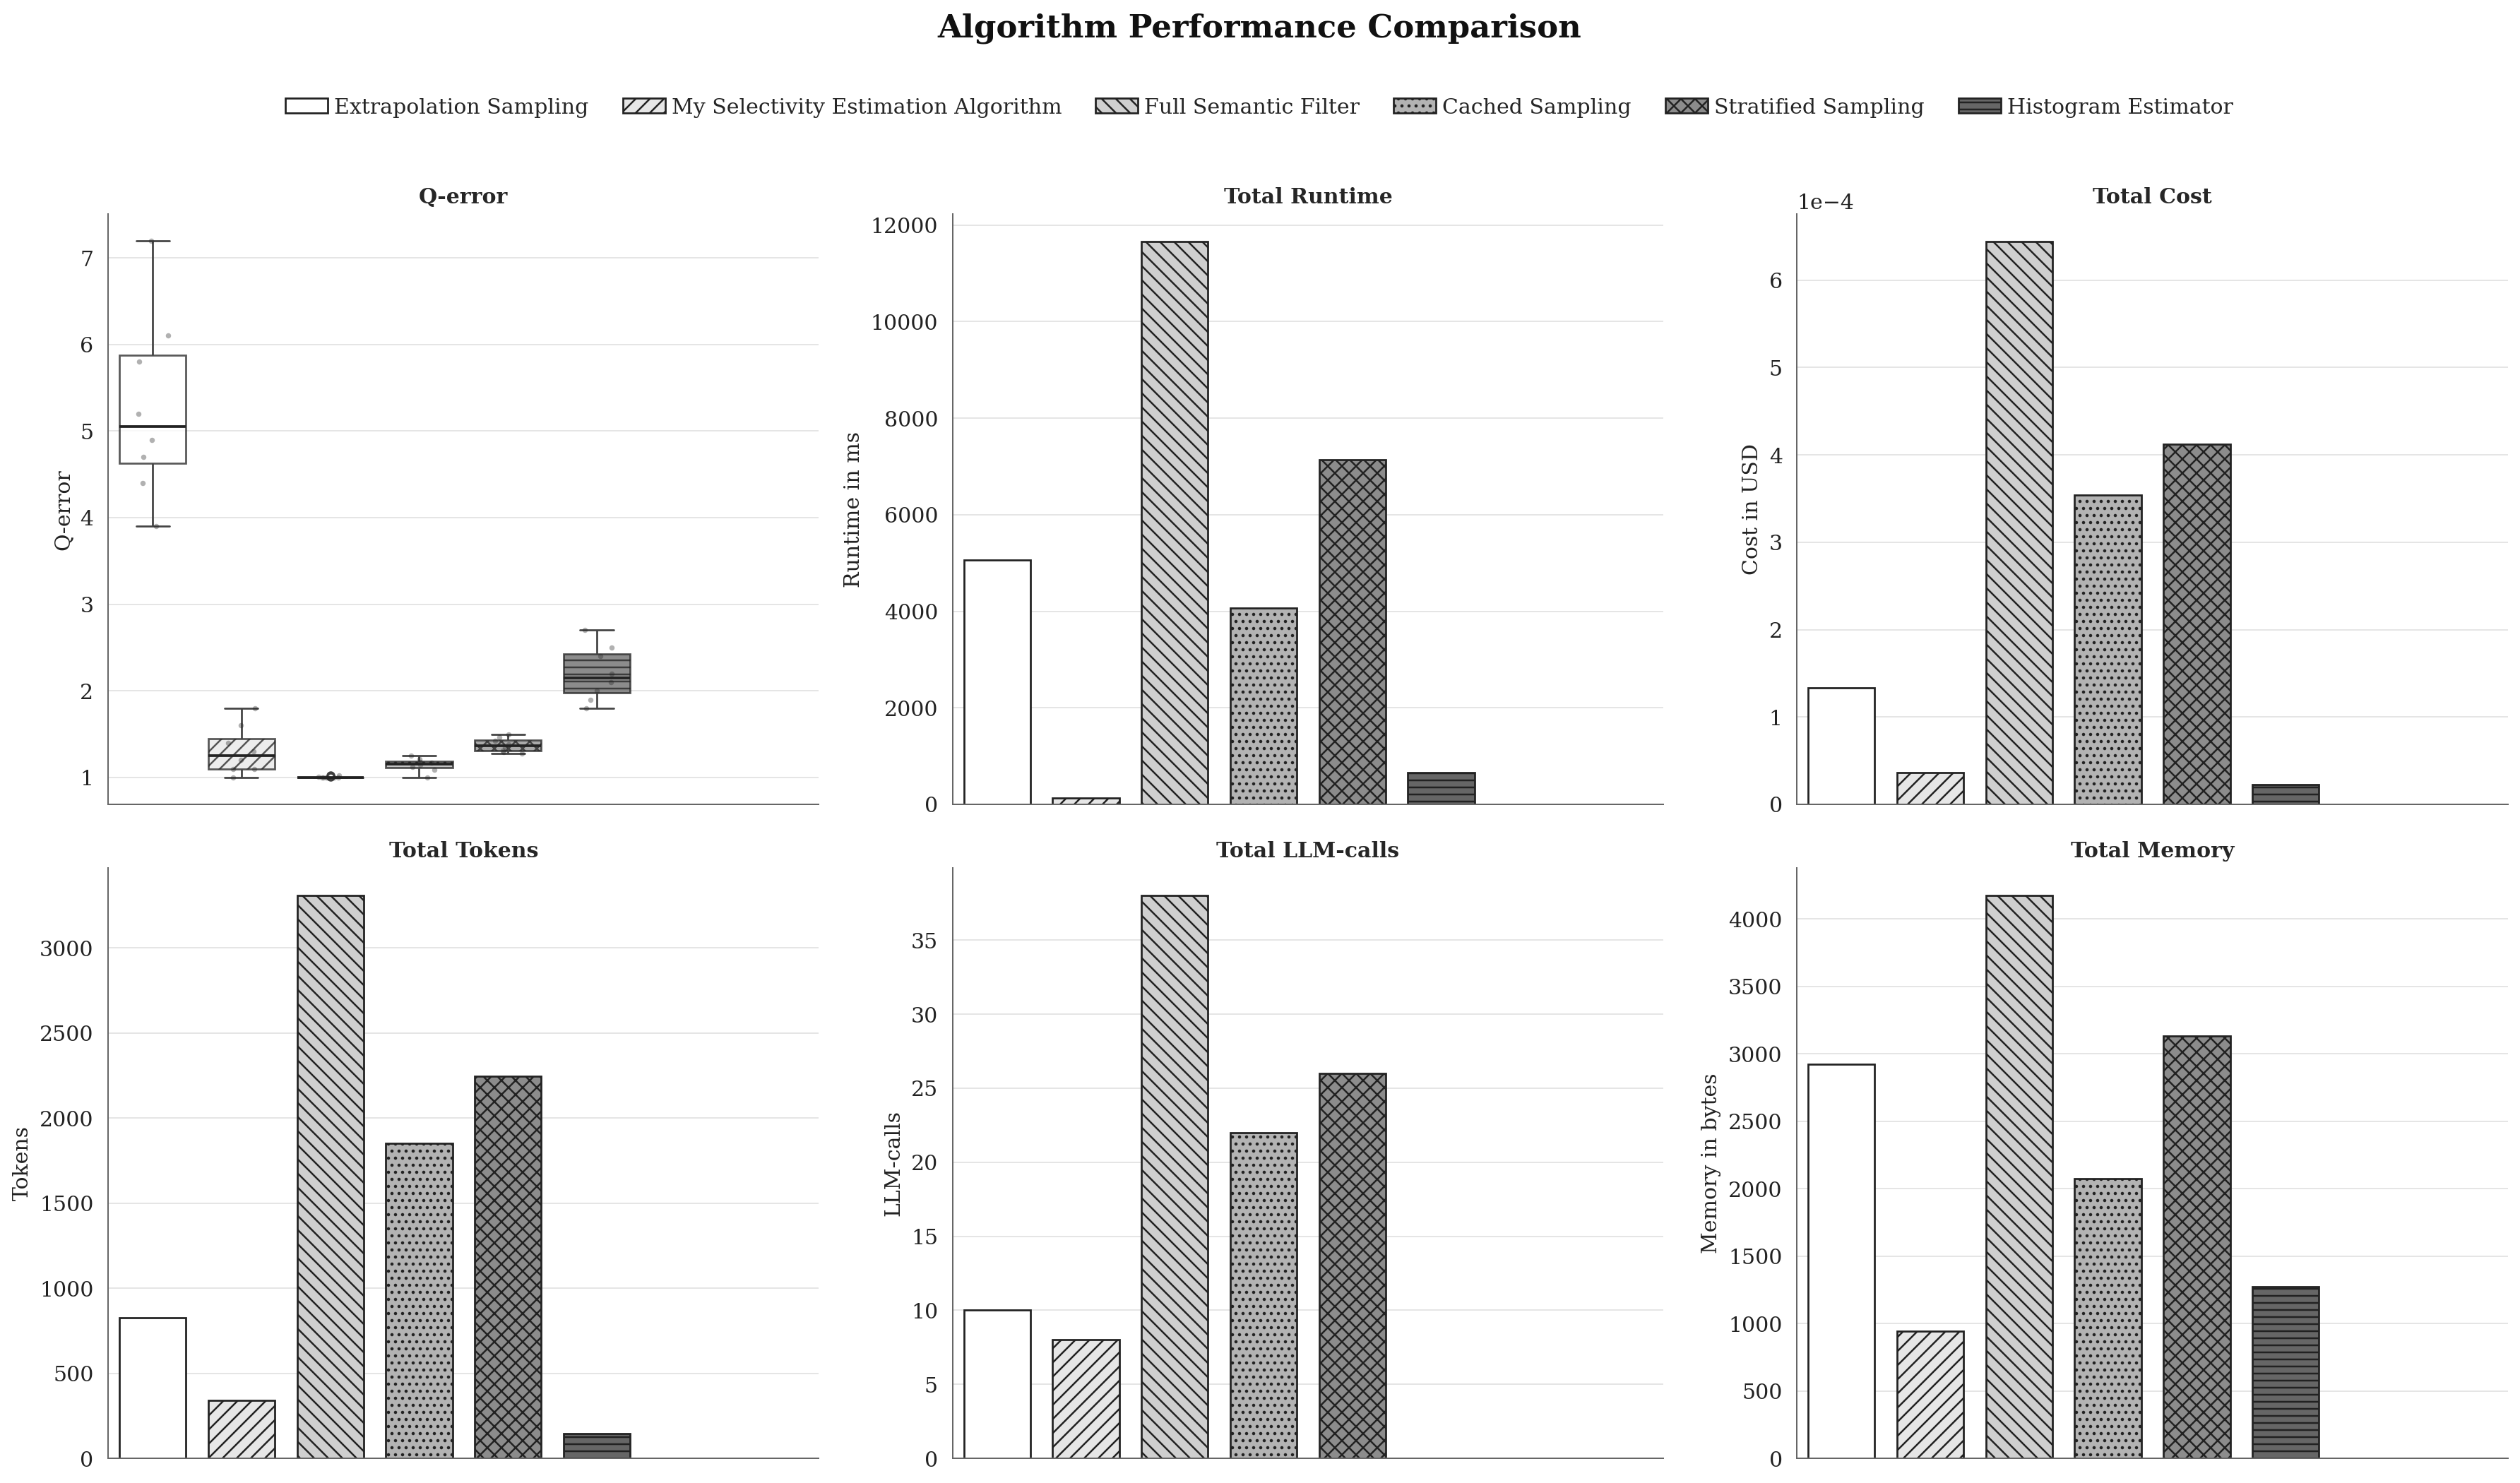
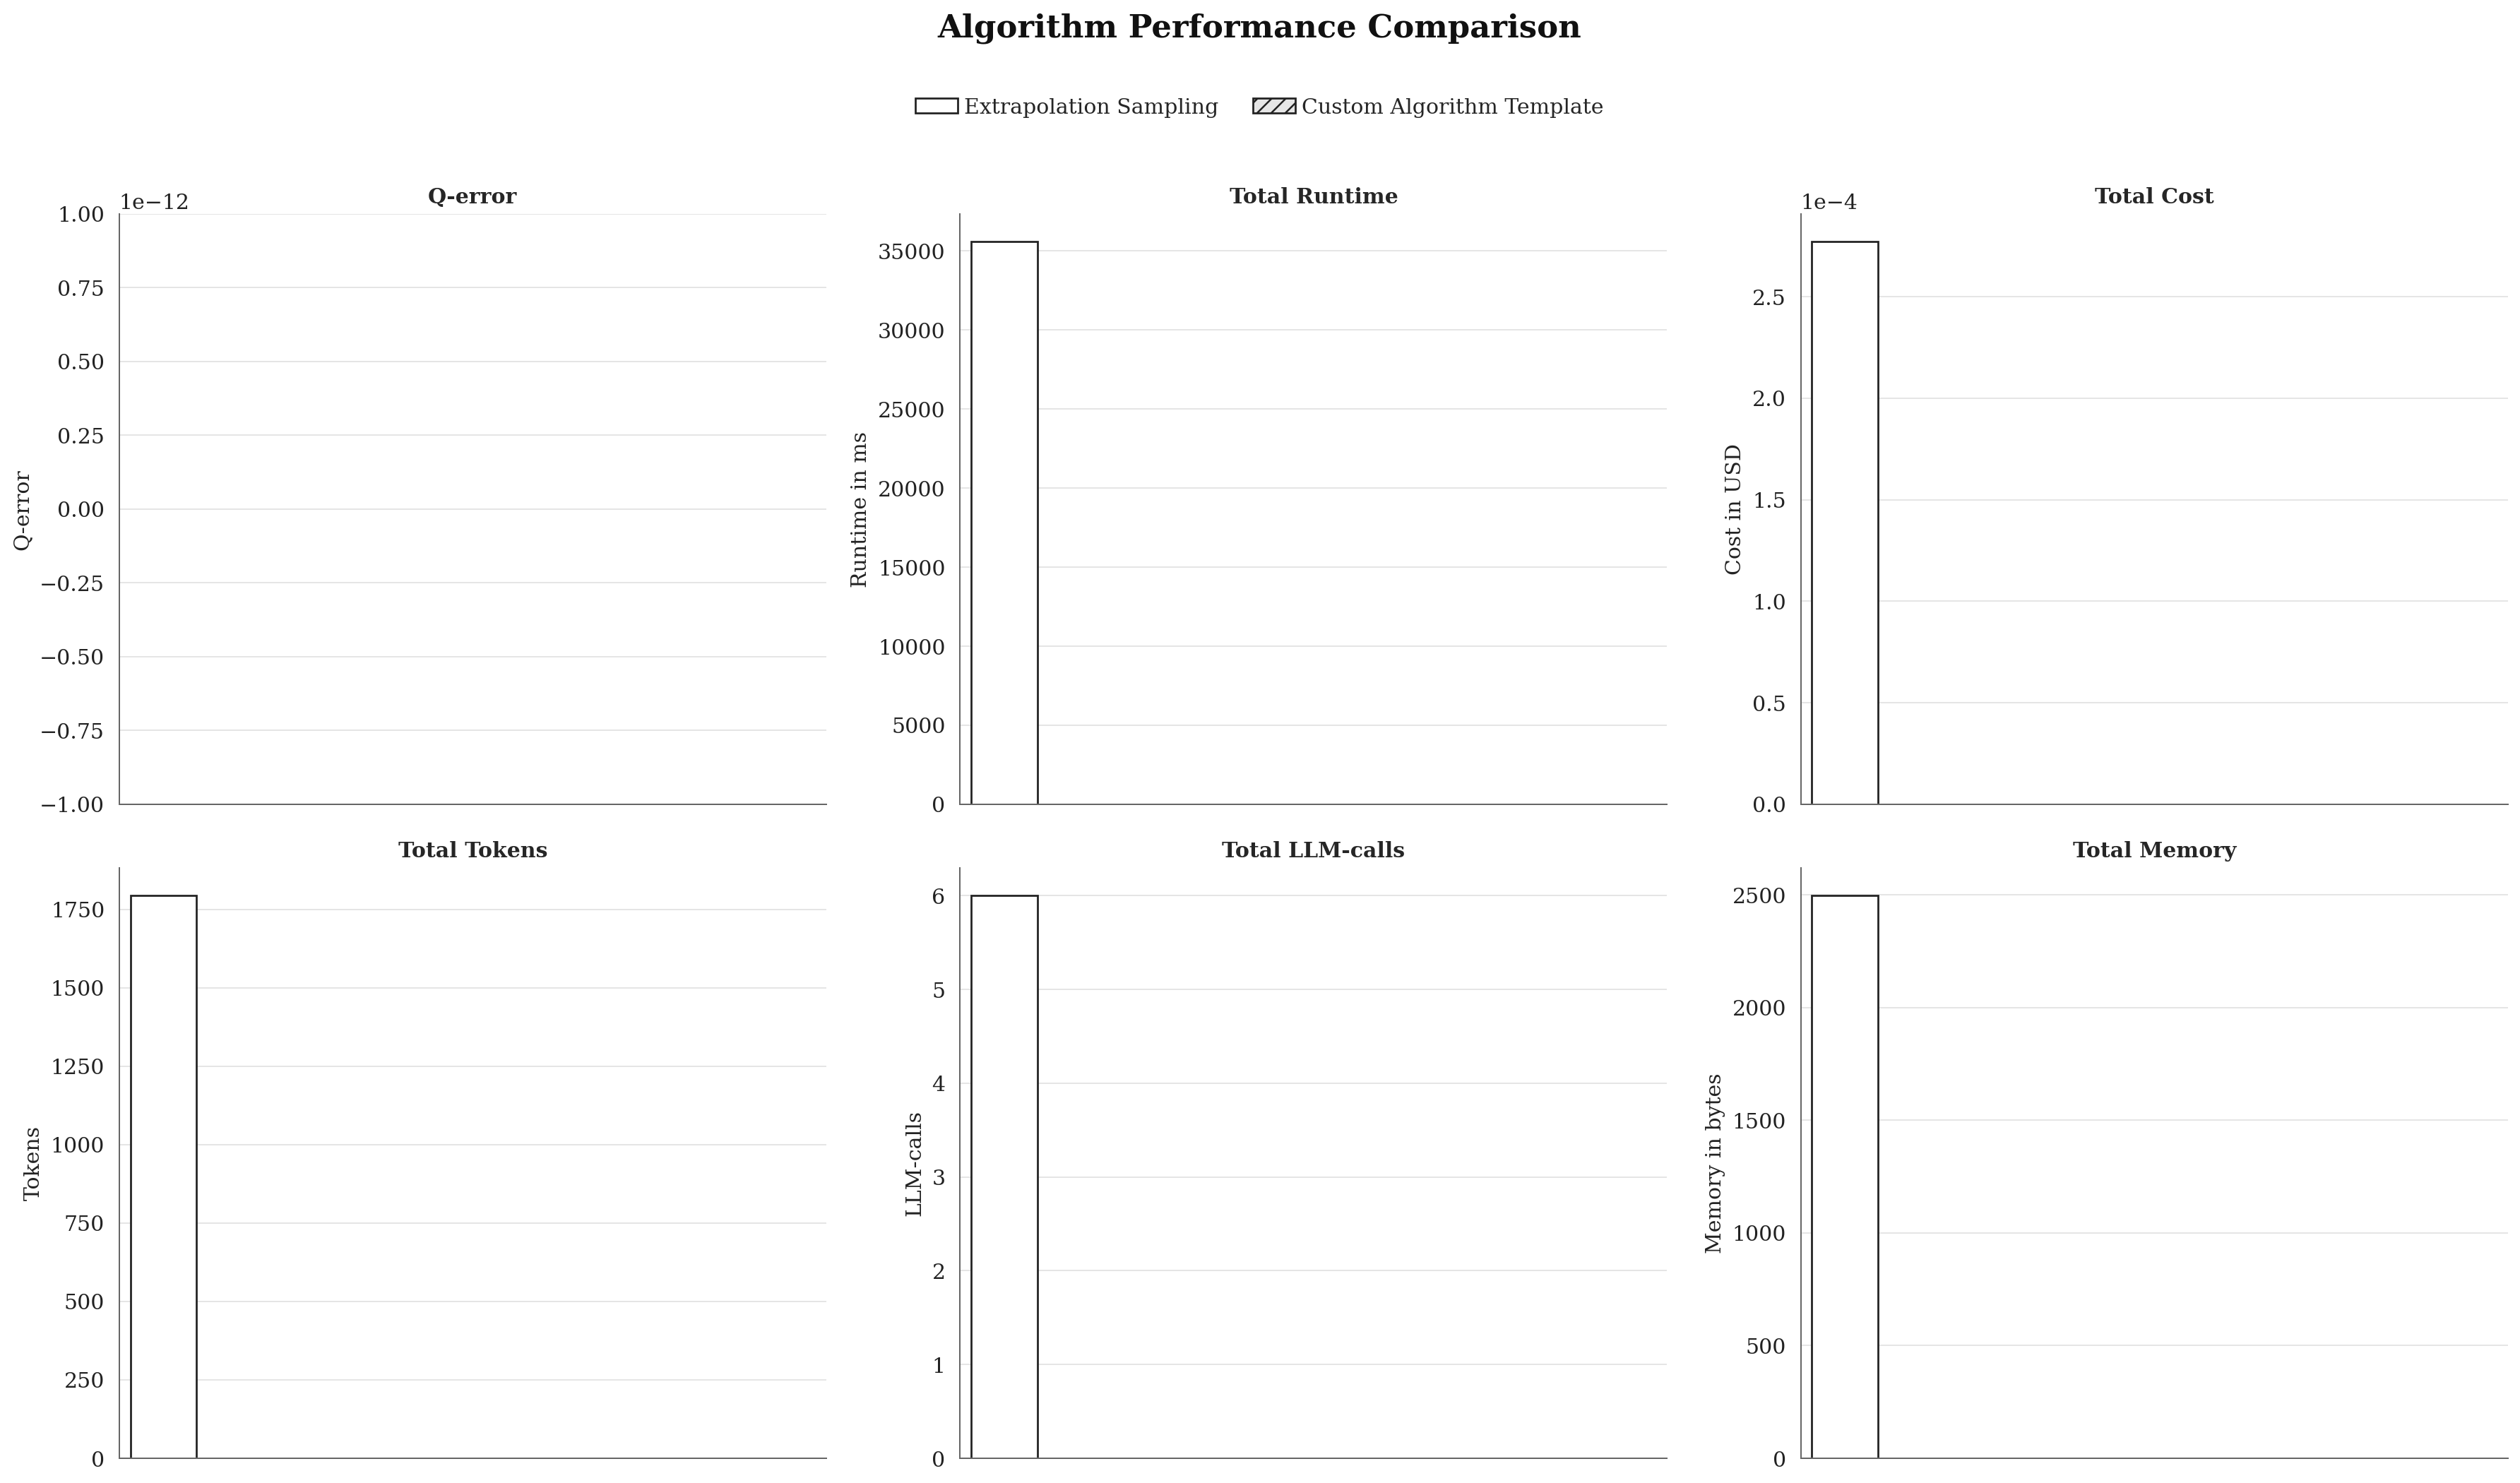
Restructuring (#49)

diff --git a/results/tables/per_query_benchmark_report.html b/results/tables/per_query_benchmark_report.html
@@ -289,14 +289,14 @@
 <tr>
 <td class='algorithm-cell'><span class='style-swatch' style='background:#ffffff;'></span><span class='algorithm-name' title='Extrapolation Sampling'>Extrapolation Sampling</span></td>
 <td><div class='metric-cell'><span class='metric-value'>179769313486231570814527423731704356798070567525844996598917476803157260780028538760589558632766878171540458953514382464234321326889464182768467546703537516986049910576551282076245490090389328944075868508455133942304583236903222948165808559332123348274797826204144723168738177180919299881250404026184124858368.00</span><span class='bar-track'><span class='bar-fill' style='display:block; width:100.0%;'></span></span></div></td>
-<td><div class='metric-cell'><span class='metric-value'>844.18</span><span class='bar-track'><span class='bar-fill' style='display:block; width:100.0%;'></span></span></div></td>
+<td><div class='metric-cell'><span class='metric-value'>3233.84</span><span class='bar-track'><span class='bar-fill' style='display:block; width:100.0%;'></span></span></div></td>
 <td><div class='metric-cell'><span class='metric-value'>0.0000</span><span class='bar-track'><span class='bar-fill' style='display:block; width:100.0%;'></span></span></div></td>
 <td><div class='metric-cell'><span class='metric-value'>139</span><span class='bar-track'><span class='bar-fill' style='display:block; width:100.0%;'></span></span></div></td>
 <td><div class='metric-cell'><span class='metric-value'>1</span><span class='bar-track'><span class='bar-fill' style='display:block; width:100.0%;'></span></span></div></td>
 <td><div class='metric-cell'><span class='metric-value'>416</span><span class='bar-track'><span class='bar-fill' style='display:block; width:100.0%;'></span></span></div></td>
 </tr>
 <tr>
-<td class='algorithm-cell'><span class='style-swatch' style='background:#e6e6e6;'></span><span class='algorithm-name' title='My Selectivity Estimation Algorithm'>My Selectivity Estimation Algorithm</span></td>
+<td class='algorithm-cell'><span class='style-swatch' style='background:#e6e6e6;'></span><span class='algorithm-name' title='Custom Algorithm Template'>Custom Algorithm Template</span></td>
 <td><div class='metric-cell'><span class='metric-value'>5.00</span><span class='bar-track'><span class='bar-fill' style='display:block; width:0.0%;'></span></span></div></td>
 <td><div class='metric-cell'><span class='metric-value'>0.00</span><span class='bar-track'><span class='bar-fill' style='display:block; width:0.0%;'></span></span></div></td>
 <td><span class='missing'>n/a</span></td>
@@ -329,14 +329,14 @@
 <tr>
 <td class='algorithm-cell'><span class='style-swatch' style='background:#ffffff;'></span><span class='algorithm-name' title='Extrapolation Sampling'>Extrapolation Sampling</span></td>
 <td><div class='metric-cell'><span class='metric-value'>1.00</span><span class='bar-track'><span class='bar-fill' style='display:block; width:0.0%;'></span></span></div></td>
-<td><div class='metric-cell'><span class='metric-value'>468.93</span><span class='bar-track'><span class='bar-fill' style='display:block; width:100.0%;'></span></span></div></td>
+<td><div class='metric-cell'><span class='metric-value'>1000.18</span><span class='bar-track'><span class='bar-fill' style='display:block; width:100.0%;'></span></span></div></td>
 <td><div class='metric-cell'><span class='metric-value'>0.0000</span><span class='bar-track'><span class='bar-fill' style='display:block; width:100.0%;'></span></span></div></td>
 <td><div class='metric-cell'><span class='metric-value'>138</span><span class='bar-track'><span class='bar-fill' style='display:block; width:100.0%;'></span></span></div></td>
 <td><div class='metric-cell'><span class='metric-value'>1</span><span class='bar-track'><span class='bar-fill' style='display:block; width:100.0%;'></span></span></div></td>
 <td><div class='metric-cell'><span class='metric-value'>416</span><span class='bar-track'><span class='bar-fill' style='display:block; width:100.0%;'></span></span></div></td>
 </tr>
 <tr>
-<td class='algorithm-cell'><span class='style-swatch' style='background:#e6e6e6;'></span><span class='algorithm-name' title='My Selectivity Estimation Algorithm'>My Selectivity Estimation Algorithm</span></td>
+<td class='algorithm-cell'><span class='style-swatch' style='background:#e6e6e6;'></span><span class='algorithm-name' title='Custom Algorithm Template'>Custom Algorithm Template</span></td>
 <td><div class='metric-cell'><span class='metric-value'>179769313486231570814527423731704356798070567525844996598917476803157260780028538760589558632766878171540458953514382464234321326889464182768467546703537516986049910576551282076245490090389328944075868508455133942304583236903222948165808559332123348274797826204144723168738177180919299881250404026184124858368.00</span><span class='bar-track'><span class='bar-fill' style='display:block; width:100.0%;'></span></span></div></td>
 <td><div class='metric-cell'><span class='metric-value'>0.00</span><span class='bar-track'><span class='bar-fill' style='display:block; width:0.0%;'></span></span></div></td>
 <td><span class='missing'>n/a</span></td>
@@ -369,14 +369,14 @@
 <tr>
 <td class='algorithm-cell'><span class='style-swatch' style='background:#ffffff;'></span><span class='algorithm-name' title='Extrapolation Sampling'>Extrapolation Sampling</span></td>
 <td><div class='metric-cell'><span class='metric-value'>1.96</span><span class='bar-track'><span class='bar-fill' style='display:block; width:6.3%;'></span></span></div></td>
-<td><div class='metric-cell'><span class='metric-value'>709.28</span><span class='bar-track'><span class='bar-fill' style='display:block; width:100.0%;'></span></span></div></td>
+<td><div class='metric-cell'><span class='metric-value'>771.08</span><span class='bar-track'><span class='bar-fill' style='display:block; width:100.0%;'></span></span></div></td>
 <td><div class='metric-cell'><span class='metric-value'>0.0001</span><span class='bar-track'><span class='bar-fill' style='display:block; width:100.0%;'></span></span></div></td>
 <td><div class='metric-cell'><span class='metric-value'>443</span><span class='bar-track'><span class='bar-fill' style='display:block; width:100.0%;'></span></span></div></td>
 <td><div class='metric-cell'><span class='metric-value'>1</span><span class='bar-track'><span class='bar-fill' style='display:block; width:100.0%;'></span></span></div></td>
 <td><div class='metric-cell'><span class='metric-value'>416</span><span class='bar-track'><span class='bar-fill' style='display:block; width:100.0%;'></span></span></div></td>
 </tr>
 <tr>
-<td class='algorithm-cell'><span class='style-swatch' style='background:#e6e6e6;'></span><span class='algorithm-name' title='My Selectivity Estimation Algorithm'>My Selectivity Estimation Algorithm</span></td>
+<td class='algorithm-cell'><span class='style-swatch' style='background:#e6e6e6;'></span><span class='algorithm-name' title='Custom Algorithm Template'>Custom Algorithm Template</span></td>
 <td><div class='metric-cell'><span class='metric-value'>31.00</span><span class='bar-track'><span class='bar-fill' style='display:block; width:100.0%;'></span></span></div></td>
 <td><div class='metric-cell'><span class='metric-value'>0.00</span><span class='bar-track'><span class='bar-fill' style='display:block; width:0.0%;'></span></span></div></td>
 <td><span class='missing'>n/a</span></td>
@@ -409,14 +409,14 @@
 <tr>
 <td class='algorithm-cell'><span class='style-swatch' style='background:#ffffff;'></span><span class='algorithm-name' title='Extrapolation Sampling'>Extrapolation Sampling</span></td>
 <td><div class='metric-cell'><span class='metric-value'>4.00</span><span class='bar-track'><span class='bar-fill' style='display:block; width:17.4%;'></span></span></div></td>
-<td><div class='metric-cell'><span class='metric-value'>728.84</span><span class='bar-track'><span class='bar-fill' style='display:block; width:100.0%;'></span></span></div></td>
+<td><div class='metric-cell'><span class='metric-value'>552.35</span><span class='bar-track'><span class='bar-fill' style='display:block; width:100.0%;'></span></span></div></td>
 <td><div class='metric-cell'><span class='metric-value'>0.0001</span><span class='bar-track'><span class='bar-fill' style='display:block; width:100.0%;'></span></span></div></td>
 <td><div class='metric-cell'><span class='metric-value'>434</span><span class='bar-track'><span class='bar-fill' style='display:block; width:100.0%;'></span></span></div></td>
 <td><div class='metric-cell'><span class='metric-value'>1</span><span class='bar-track'><span class='bar-fill' style='display:block; width:100.0%;'></span></span></div></td>
 <td><div class='metric-cell'><span class='metric-value'>416</span><span class='bar-track'><span class='bar-fill' style='display:block; width:100.0%;'></span></span></div></td>
 </tr>
 <tr>
-<td class='algorithm-cell'><span class='style-swatch' style='background:#e6e6e6;'></span><span class='algorithm-name' title='My Selectivity Estimation Algorithm'>My Selectivity Estimation Algorithm</span></td>
+<td class='algorithm-cell'><span class='style-swatch' style='background:#e6e6e6;'></span><span class='algorithm-name' title='Custom Algorithm Template'>Custom Algorithm Template</span></td>
 <td><div class='metric-cell'><span class='metric-value'>23.00</span><span class='bar-track'><span class='bar-fill' style='display:block; width:100.0%;'></span></span></div></td>
 <td><div class='metric-cell'><span class='metric-value'>0.00</span><span class='bar-track'><span class='bar-fill' style='display:block; width:0.0%;'></span></span></div></td>
 <td><span class='missing'>n/a</span></td>
@@ -449,14 +449,14 @@
 <tr>
 <td class='algorithm-cell'><span class='style-swatch' style='background:#ffffff;'></span><span class='algorithm-name' title='Extrapolation Sampling'>Extrapolation Sampling</span></td>
 <td><div class='metric-cell'><span class='metric-value'>10.00</span><span class='bar-track'><span class='bar-fill' style='display:block; width:100.0%;'></span></span></div></td>
-<td><div class='metric-cell'><span class='metric-value'>1127.14</span><span class='bar-track'><span class='bar-fill' style='display:block; width:100.0%;'></span></span></div></td>
+<td><div class='metric-cell'><span class='metric-value'>[phone redacted]</span><span class='bar-track'><span class='bar-fill' style='display:block; width:100.0%;'></span></span></div></td>
 <td><div class='metric-cell'><span class='metric-value'>0.0000</span><span class='bar-track'><span class='bar-fill' style='display:block; width:100.0%;'></span></span></div></td>
 <td><div class='metric-cell'><span class='metric-value'>204</span><span class='bar-track'><span class='bar-fill' style='display:block; width:100.0%;'></span></span></div></td>
 <td><div class='metric-cell'><span class='metric-value'>1</span><span class='bar-track'><span class='bar-fill' style='display:block; width:100.0%;'></span></span></div></td>
 <td><div class='metric-cell'><span class='metric-value'>416</span><span class='bar-track'><span class='bar-fill' style='display:block; width:100.0%;'></span></span></div></td>
 </tr>
 <tr>
-<td class='algorithm-cell'><span class='style-swatch' style='background:#e6e6e6;'></span><span class='algorithm-name' title='My Selectivity Estimation Algorithm'>My Selectivity Estimation Algorithm</span></td>
+<td class='algorithm-cell'><span class='style-swatch' style='background:#e6e6e6;'></span><span class='algorithm-name' title='Custom Algorithm Template'>Custom Algorithm Template</span></td>
 <td><div class='metric-cell'><span class='metric-value'>10.00</span><span class='bar-track'><span class='bar-fill' style='display:block; width:100.0%;'></span></span></div></td>
 <td><div class='metric-cell'><span class='metric-value'>0.00</span><span class='bar-track'><span class='bar-fill' style='display:block; width:0.0%;'></span></span></div></td>
 <td><span class='missing'>n/a</span></td>
@@ -489,16 +489,16 @@
 <tr>
 <td class='algorithm-cell'><span class='style-swatch' style='background:#ffffff;'></span><span class='algorithm-name' title='Extrapolation Sampling'>Extrapolation Sampling</span></td>
 <td><div class='metric-cell'><span class='metric-value'>179769313486231570814527423731704356798070567525844996598917476803157260780028538760589558632766878171540458953514382464234321326889464182768467546703537516986049910576551282076245490090389328944075868508455133942304583236903222948165808559332123348274797826204144723168738177180919299881250404026184124858368.00</span><span class='bar-track'><span class='bar-fill' style='display:block; width:100.0%;'></span></span></div></td>
-<td><div class='metric-cell'><span class='metric-value'>1742.67</span><span class='bar-track'><span class='bar-fill' style='display:block; width:100.0%;'></span></span></div></td>
+<td><div class='metric-cell'><span class='metric-value'>1858.58</span><span class='bar-track'><span class='bar-fill' style='display:block; width:100.0%;'></span></span></div></td>
 <td><div class='metric-cell'><span class='metric-value'>0.0001</span><span class='bar-track'><span class='bar-fill' style='display:block; width:100.0%;'></span></span></div></td>
 <td><div class='metric-cell'><span class='metric-value'>435</span><span class='bar-track'><span class='bar-fill' style='display:block; width:100.0%;'></span></span></div></td>
 <td><div class='metric-cell'><span class='metric-value'>1</span><span class='bar-track'><span class='bar-fill' style='display:block; width:100.0%;'></span></span></div></td>
 <td><div class='metric-cell'><span class='metric-value'>416</span><span class='bar-track'><span class='bar-fill' style='display:block; width:100.0%;'></span></span></div></td>
 </tr>
 <tr>
-<td class='algorithm-cell'><span class='style-swatch' style='background:#e6e6e6;'></span><span class='algorithm-name' title='My Selectivity Estimation Algorithm'>My Selectivity Estimation Algorithm</span></td>
+<td class='algorithm-cell'><span class='style-swatch' style='background:#e6e6e6;'></span><span class='algorithm-name' title='Custom Algorithm Template'>Custom Algorithm Template</span></td>
 <td><div class='metric-cell'><span class='metric-value'>5.00</span><span class='bar-track'><span class='bar-fill' style='display:block; width:0.0%;'></span></span></div></td>
-<td><div class='metric-cell'><span class='metric-value'>0.07</span><span class='bar-track'><span class='bar-fill' style='display:block; width:0.0%;'></span></span></div></td>
+<td><div class='metric-cell'><span class='metric-value'>0.00</span><span class='bar-track'><span class='bar-fill' style='display:block; width:0.0%;'></span></span></div></td>
 <td><span class='missing'>n/a</span></td>
 <td><span class='missing'>n/a</span></td>
 <td><span class='missing'>n/a</span></td>

diff --git a/results/tables/algorithm_summary.html b/results/tables/algorithm_summary.html
@@ -72,14 +72,14 @@
   </thead>
   <tbody>
     <tr>
-      <td>My Selectivity Estimation Algorithm</td>
+      <td>Custom Algorithm Template</td>
       <td>6</td>
       <td>2.996155e+307</td>
       <td>5.0</td>
       <td>1.797693e+308</td>
-      <td>0.012708</td>
-      <td>0.001300</td>
-      <td>0.069220</td>
+      <td>0.001575</td>
+      <td>0.001121</td>
+      <td>0.002980</td>
       <td>0.000000</td>
       <td>0.0</td>
       <td>0.0</td>
@@ -91,9 +91,9 @@
       <td>NaN</td>
       <td>1.0</td>
       <td>1.797693e+308</td>
-      <td>936.838951</td>
-      <td>468.926791</td>
-      <td>1742.668055</td>
+      <td>5930.502160</td>
+      <td>552.353255</td>
+      <td>28166.971695</td>
       <td>0.000277</td>
       <td>6.0</td>
       <td>1793.0</td>

diff --git a/run.py b/run.py
@@ -5,9 +5,9 @@ from collections.abc import Callable
 from typing import Any
 import logging
 
-from runner.benchmark import BenchmarkRunner
-from results.plotter import ResultsPlotter
-from utils.console import console
+from src.semceb.benchmark.benchmark import BenchmarkRunner
+from src.semceb.reporting.plotter import ResultsPlotter
+from src.semceb.utils.console import console
 
 
 def configure_logging() -> None:

diff --git a/README.md b/README.md
@@ -1,44 +1,81 @@
 # SemCEB
 
-A benchmark pipeline for running selectivity cardinality estimation algorithms and plotting the results.
+**A Cardinality Estimation Benchmark for Semantic Operators**
+
+SemCEB provides a benchmark pipeline for running cardinality estimation algorithms and plotting the results.
 
 ## Installation
 
-Clone the repository and install the project in editable mode from the project root:
+Clone the repository and install the project in editable mode from the project root.
+
+The editable install means that local code changes are picked up immediately. This is useful when modifying the provided algorithm template in `src/semceb/algorithms/custom_algorithm_template.py`.
+
+<details>
+<summary>Linux</summary>
 
 ```bash
-pip install -e .
+git clone https://github.com/utndatasystems/SemCEB.git
+cd SemCEB
+
+python3 -m venv .venv
+source .venv/bin/activate
+
+python -m pip install --upgrade pip
+python -m pip install -e .
 ```
 
-This installs the dependencies defined in `pyproject.toml` and makes the `SemCEB` command available.
+</details>
 
-The editable install means that local code changes are picked up immediately. This is useful when modifying the provided algorithm template in `runner/algorithms/my_selectivity_estimation_algorithm.py`.
+<details>
+<summary>macOS</summary>
 
-**Note:**  
+```bash
+git clone https://github.com/utndatasystems/SemCEB.git
+cd SemCEB
+
+python3 -m venv .venv
+source .venv/bin/activate
+
+python -m pip install --upgrade pip
+python -m pip install -e .
+```
+
+</details>
+
+<details>
+<summary>Windows</summary>
+
+```bash
+git clone https://github.com/utndatasystems/SemCEB.git
+cd SemCEB
+
+python -m venv .venv
+.\.venv\Scripts\Activate.ps1
+
+python -m pip install --upgrade pip
+python -m pip install -e .
+```
+
+</details>
+
+**Note:**
 For custom queries, models other than the currently configured OpenAI models in `config.toml`, or new LLM-based algorithms, create a local `.env` file from `.env.example` and add the required API keys or credentials.
 
 ## Modes
 
 ### `run`
 
-Runs the configured algorithms on the queries.
+Runs the configured algorithms on the benchmark queries.
 
 ```bash
-SemCEB run  # alternative: python run.py run
-```
-
-or, because `run` is the default mode:
-
-```bash
-SemCEB  # alternative: python run.py
+semceb run  # alternative: python run.py run
 ```
 
 Uses:
 
 ```text
 config.toml
-queries/queries.jsonl
-runner/algorithms/
+benchmark_queries/queries.jsonl
 ```
 
 Writes raw benchmark results to:
@@ -49,10 +86,10 @@ results/raw/result.jsonl
 
 ### `plot`
 
-Creates result summaries and plots from the raw benchmark results.
+Creates result summaries, plots, and tables from the raw benchmark results.
 
 ```bash
-SemCEB plot  # alternative: python run.py plot
+semceb plot  # alternative: python run.py plot
 ```
 
 Uses:
@@ -73,7 +110,7 @@ results/tables
 The provided algorithm template is located at:
 
 ```text
-runner/algorithms/my_selectivity_estimation_algorithm.py
+src/semceb/algorithms/custom_algorithm_template.py
 ```
 
 This is the main file intended for users to modify. You can implement your own selectivity estimation logic there while keeping the rest of the benchmark pipeline unchanged.
@@ -81,20 +118,16 @@ This is the main file intended for users to modify. You can implement your own s
 After editing the algorithm file, run the benchmark with:
 
 ```bash
-SemCEB run  # alternative: python run.py run
+semceb run  # alternative: python run.py run
 ```
 
 Then generate plots and summary tables with:
 
 ```bash
-SemCEB plot  # alternative: python run.py plot
+semceb plot  # alternative: python run.py plot
 ```
 
-No reinstall is needed after changing the algorithm file, as long as the project was installed in editable mode with:
-
-```bash
-pip install -e .
-```
+No reinstall is needed after changing the algorithm file, as long as the project was installed in editable mode; see [Installation](#installation).
 
 ## Configuration
 